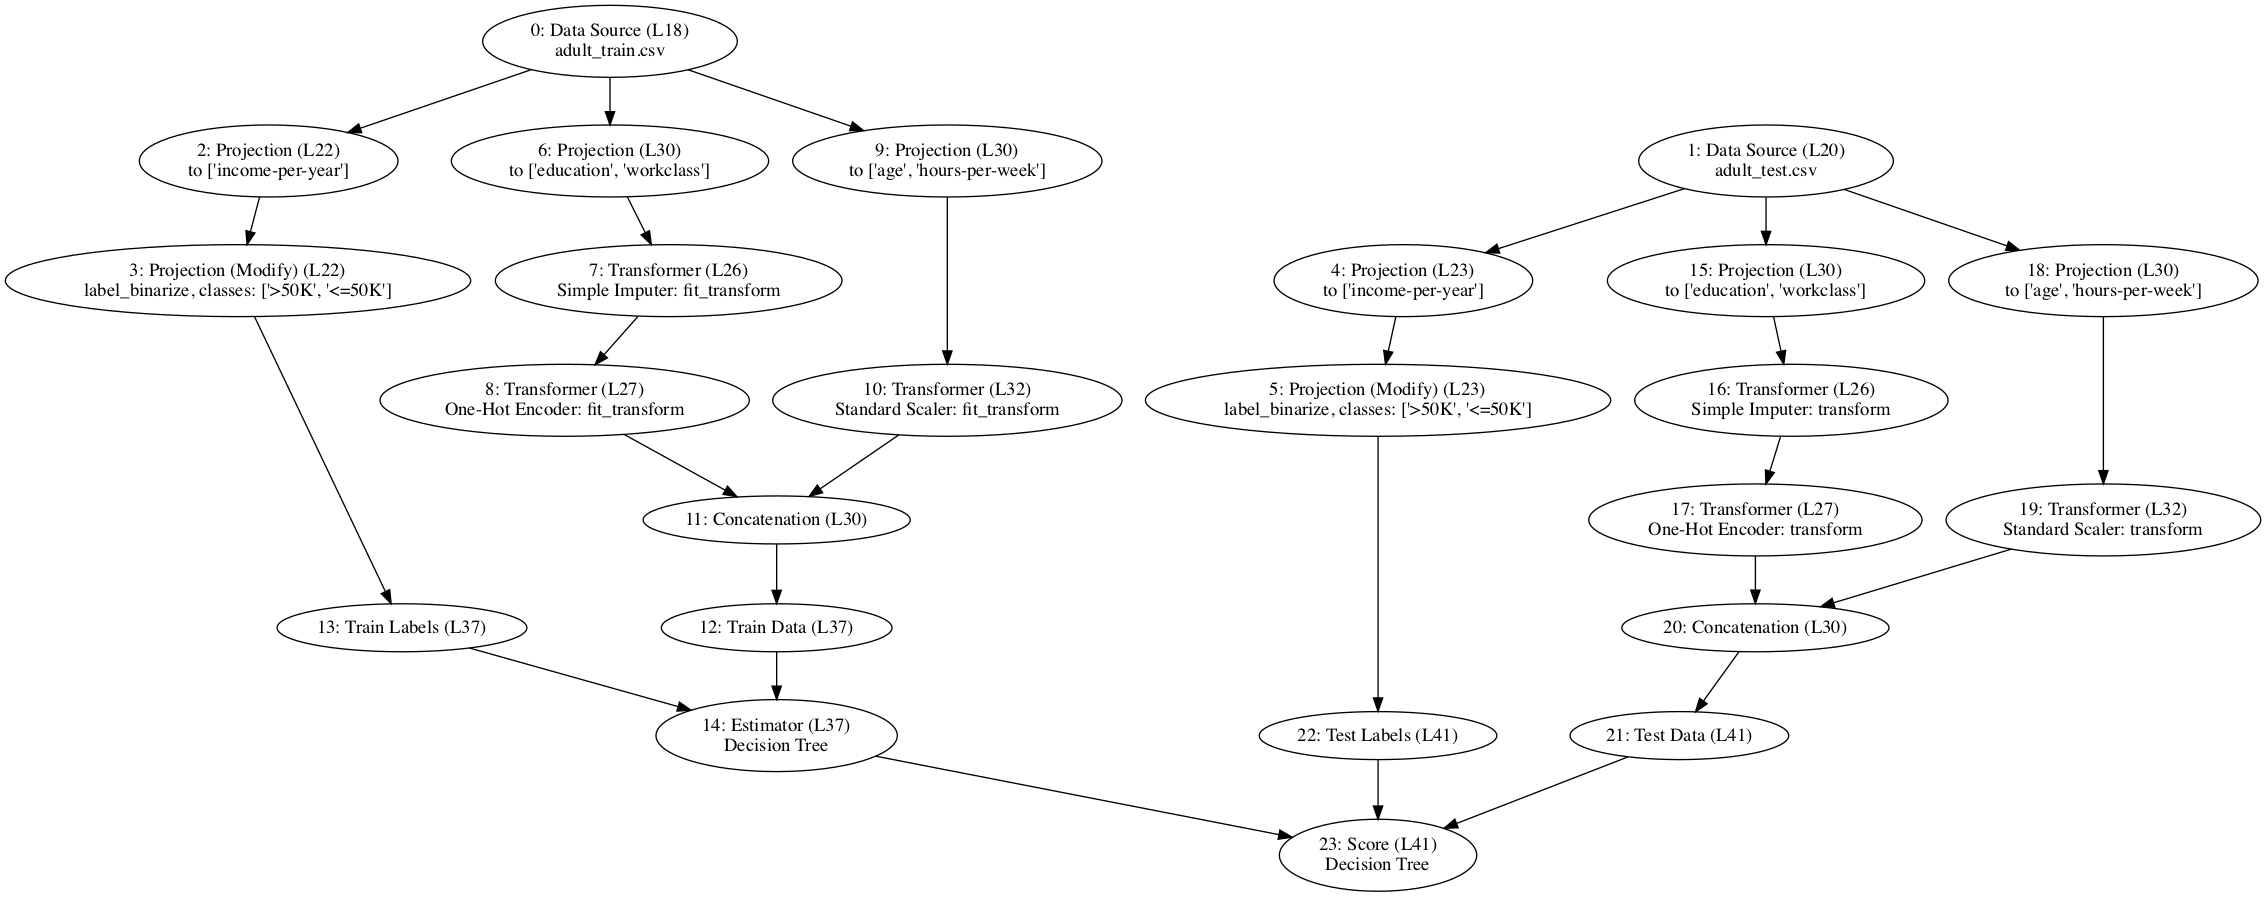
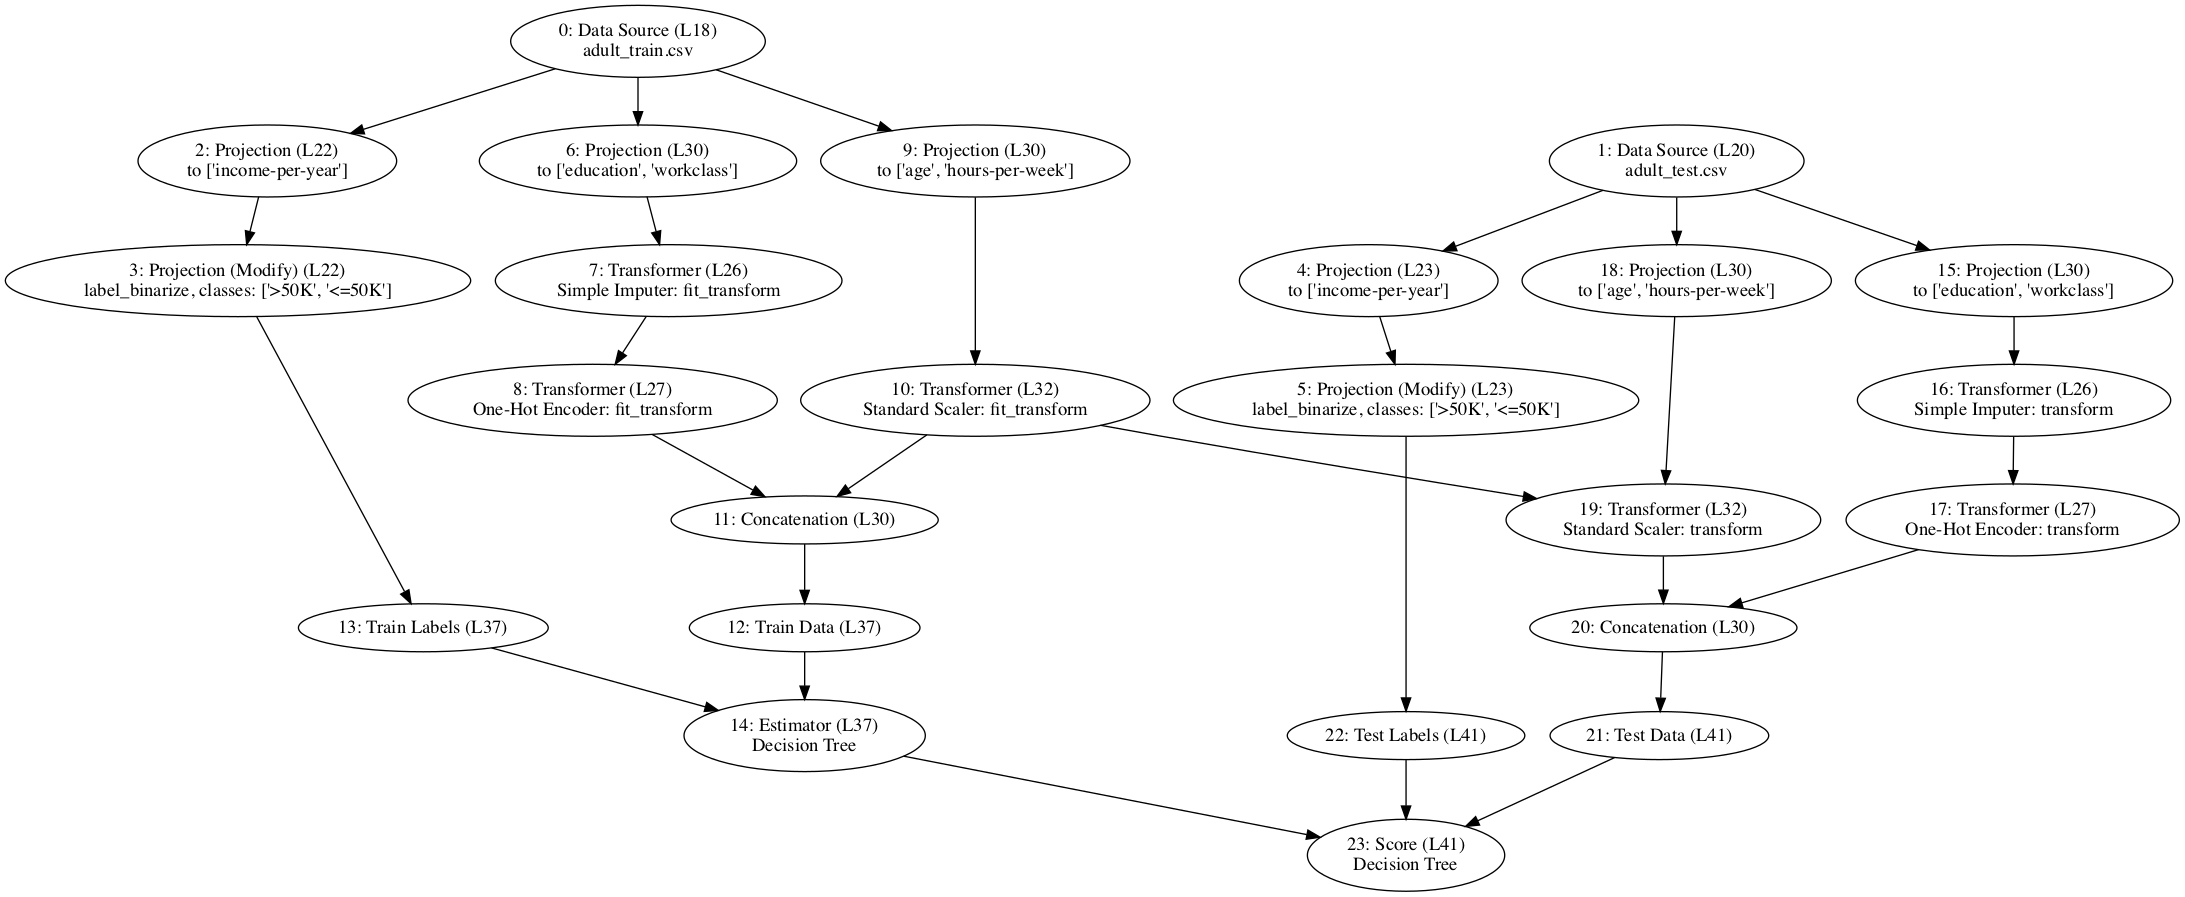
Added new DAG edge for transformer fitting for the first transformer

diff --git a/mlwhatif/monkeypatching/_patch_sklearn.py b/mlwhatif/monkeypatching/_patch_sklearn.py
@@ -249,7 +249,7 @@ class SklearnStandardScalerPatching:
     def patched__init__(self, *, copy=True, with_mean=True, with_std=True,
                         mlinspect_caller_filename=None, mlinspect_lineno=None,
                         mlinspect_optional_code_reference=None, mlinspect_optional_source_code=None,
-                        mlinspect_fit_transform_active=False):
+                        mlinspect_fit_transform_active=False, mlinspect_transformer_node_id=None):
         """ Patch for ('sklearn.preprocessing._data', 'StandardScaler') """
         # pylint: disable=no-method-argument, attribute-defined-outside-init
         original = gorilla.get_original_attribute(preprocessing.StandardScaler, '__init__')
@@ -259,6 +259,7 @@ class SklearnStandardScalerPatching:
         self.mlinspect_optional_code_reference = mlinspect_optional_code_reference
         self.mlinspect_optional_source_code = mlinspect_optional_source_code
         self.mlinspect_fit_transform_active = mlinspect_fit_transform_active
+        self.mlinspect_transformer_node_id = mlinspect_transformer_node_id
 
         self.mlinspect_non_data_func_args = {'copy': copy, 'with_mean': with_mean, 'with_std': with_std}
 
@@ -286,7 +287,9 @@ class SklearnStandardScalerPatching:
 
         operator_context = OperatorContext(OperatorType.TRANSFORMER, function_info)
         result = original(self, input_info.annotated_dfobject.result_data, *args[1:], **kwargs)
-        dag_node = DagNode(singleton.get_next_op_id(),
+        dag_node_id = singleton.get_next_op_id()
+        self.mlinspect_transformer_node_id = dag_node_id  # pylint: disable=attribute-defined-outside-init
+        dag_node = DagNode(dag_node_id,
                            BasicCodeLocation(self.mlinspect_caller_filename, self.mlinspect_lineno),
                            operator_context,
                            DagNodeDetails("Standard Scaler: fit_transform", ['array']),
@@ -319,9 +322,10 @@ class SklearnStandardScalerPatching:
                                DagNodeDetails("Standard Scaler: transform", ['array']),
                                get_optional_code_info_or_none(self.mlinspect_optional_code_reference,
                                                               self.mlinspect_optional_source_code))
-
+            # TODO: Additional code required here to add new edge
             function_call_result = FunctionCallResult(result)
-            add_dag_node(dag_node, [input_info.dag_node], function_call_result)
+            transformer_dag_node = get_dag_node_for_id(self.mlinspect_transformer_node_id)
+            add_dag_node(dag_node, [transformer_dag_node, input_info.dag_node], function_call_result)
             new_result = function_call_result.function_result
             assert isinstance(new_result, MlinspectNdarray)
         else:

diff --git a/test/monkeypatching/test_patch_sklearn.py b/test/monkeypatching/test_patch_sklearn.py
@@ -144,7 +144,8 @@ def test_standard_scaler():
                                                        FunctionInfo('sklearn.preprocessing._data', 'StandardScaler')),
                                        DagNodeDetails('Standard Scaler: transform', ['array']),
                                        OptionalCodeInfo(CodeReference(6, 18, 6, 34), 'StandardScaler()'))
-    expected_dag.add_edge(expected_data_source_two, expected_transformer_two, arg_index=0)
+    expected_dag.add_edge(expected_transformer, expected_transformer_two, arg_index=0)
+    expected_dag.add_edge(expected_data_source_two, expected_transformer_two, arg_index=1)
     compare(networkx.to_dict_of_dicts(inspector_result.dag), networkx.to_dict_of_dicts(expected_dag))
 
 
@@ -826,7 +827,7 @@ def test_column_transformer_transform_after_fit_transform():
                                                        FunctionInfo('sklearn.preprocessing._data', 'StandardScaler')),
                                        DagNodeDetails('Standard Scaler: transform', ['array']),
                                        OptionalCodeInfo(CodeReference(9, 16, 9, 32), 'StandardScaler()'))
-    expected_dag.add_edge(expected_projection_1, expected_standard_scaler, arg_index=0)
+    expected_dag.add_edge(expected_projection_1, expected_standard_scaler, arg_index=1)
     expected_one_hot = DagNode(10,
                                BasicCodeLocation("<string-source>", 10),
                                OperatorContext(OperatorType.TRANSFORMER,
